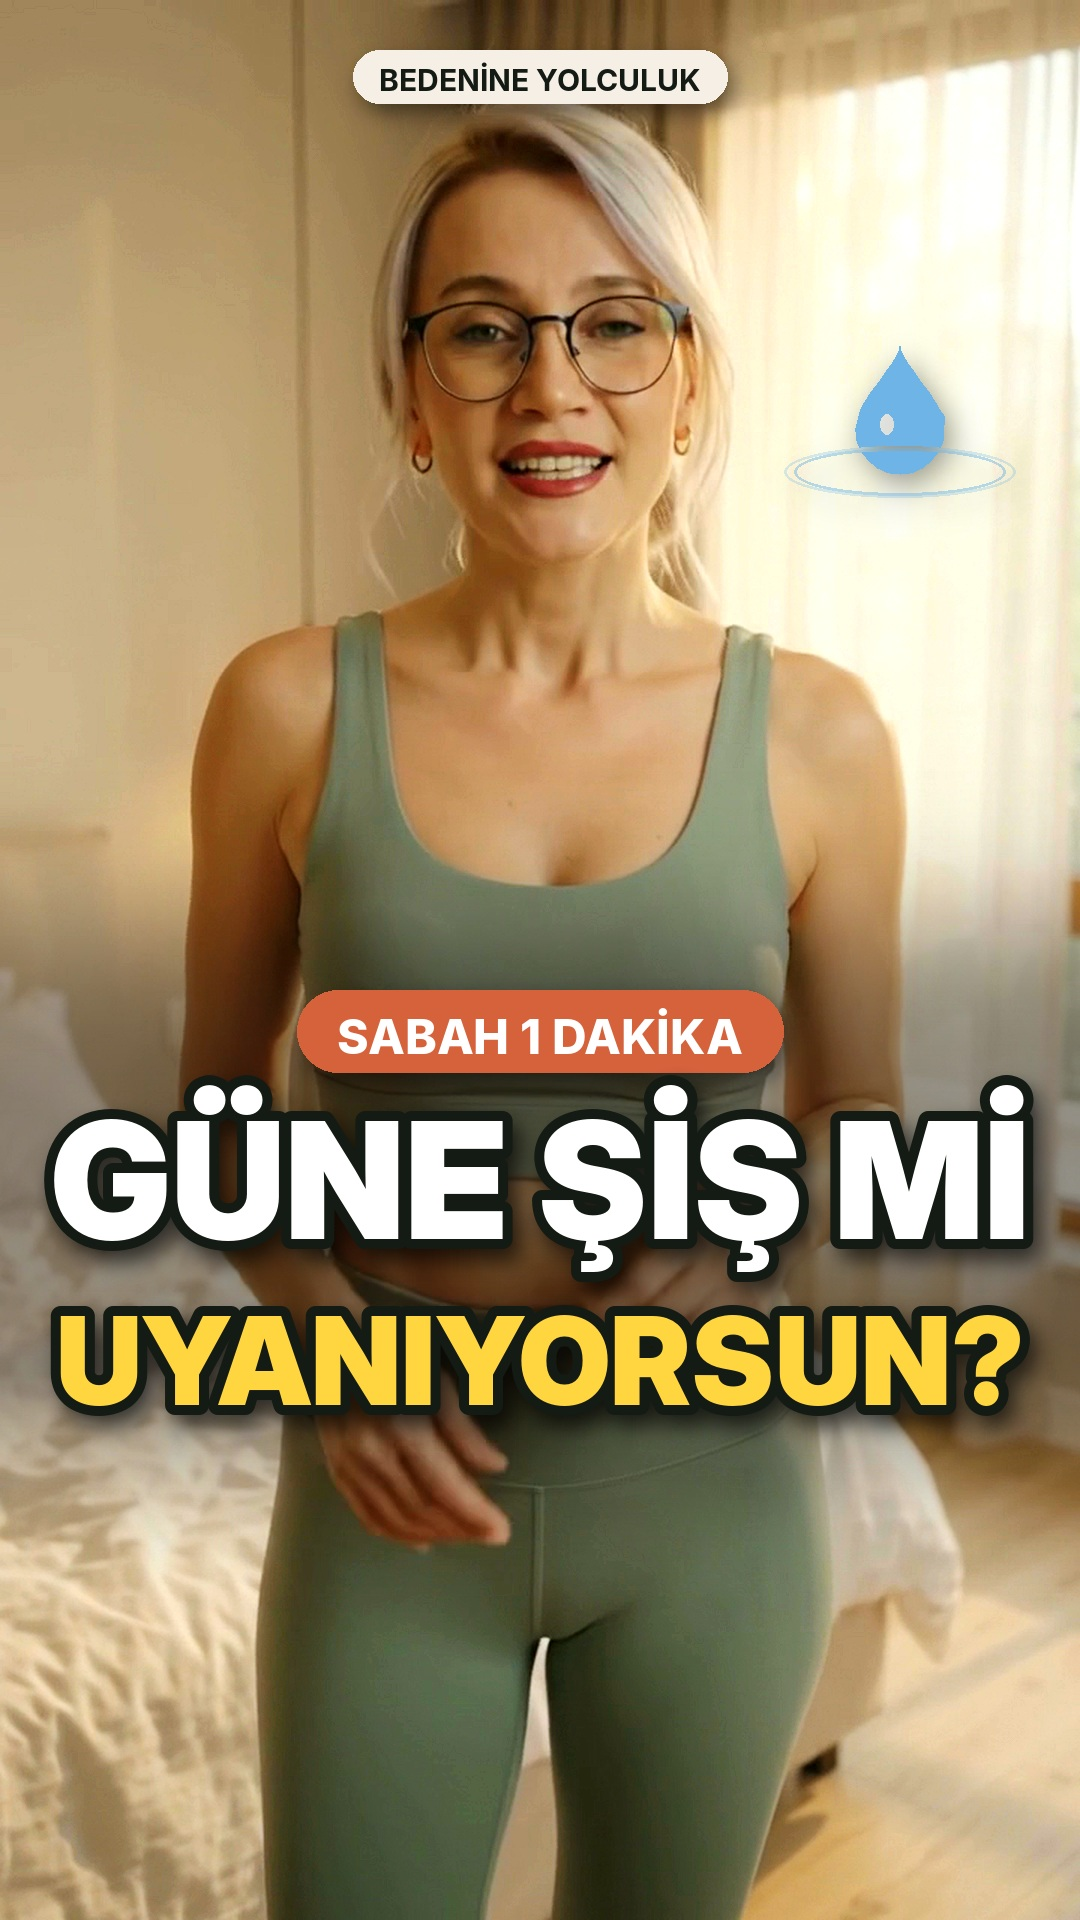
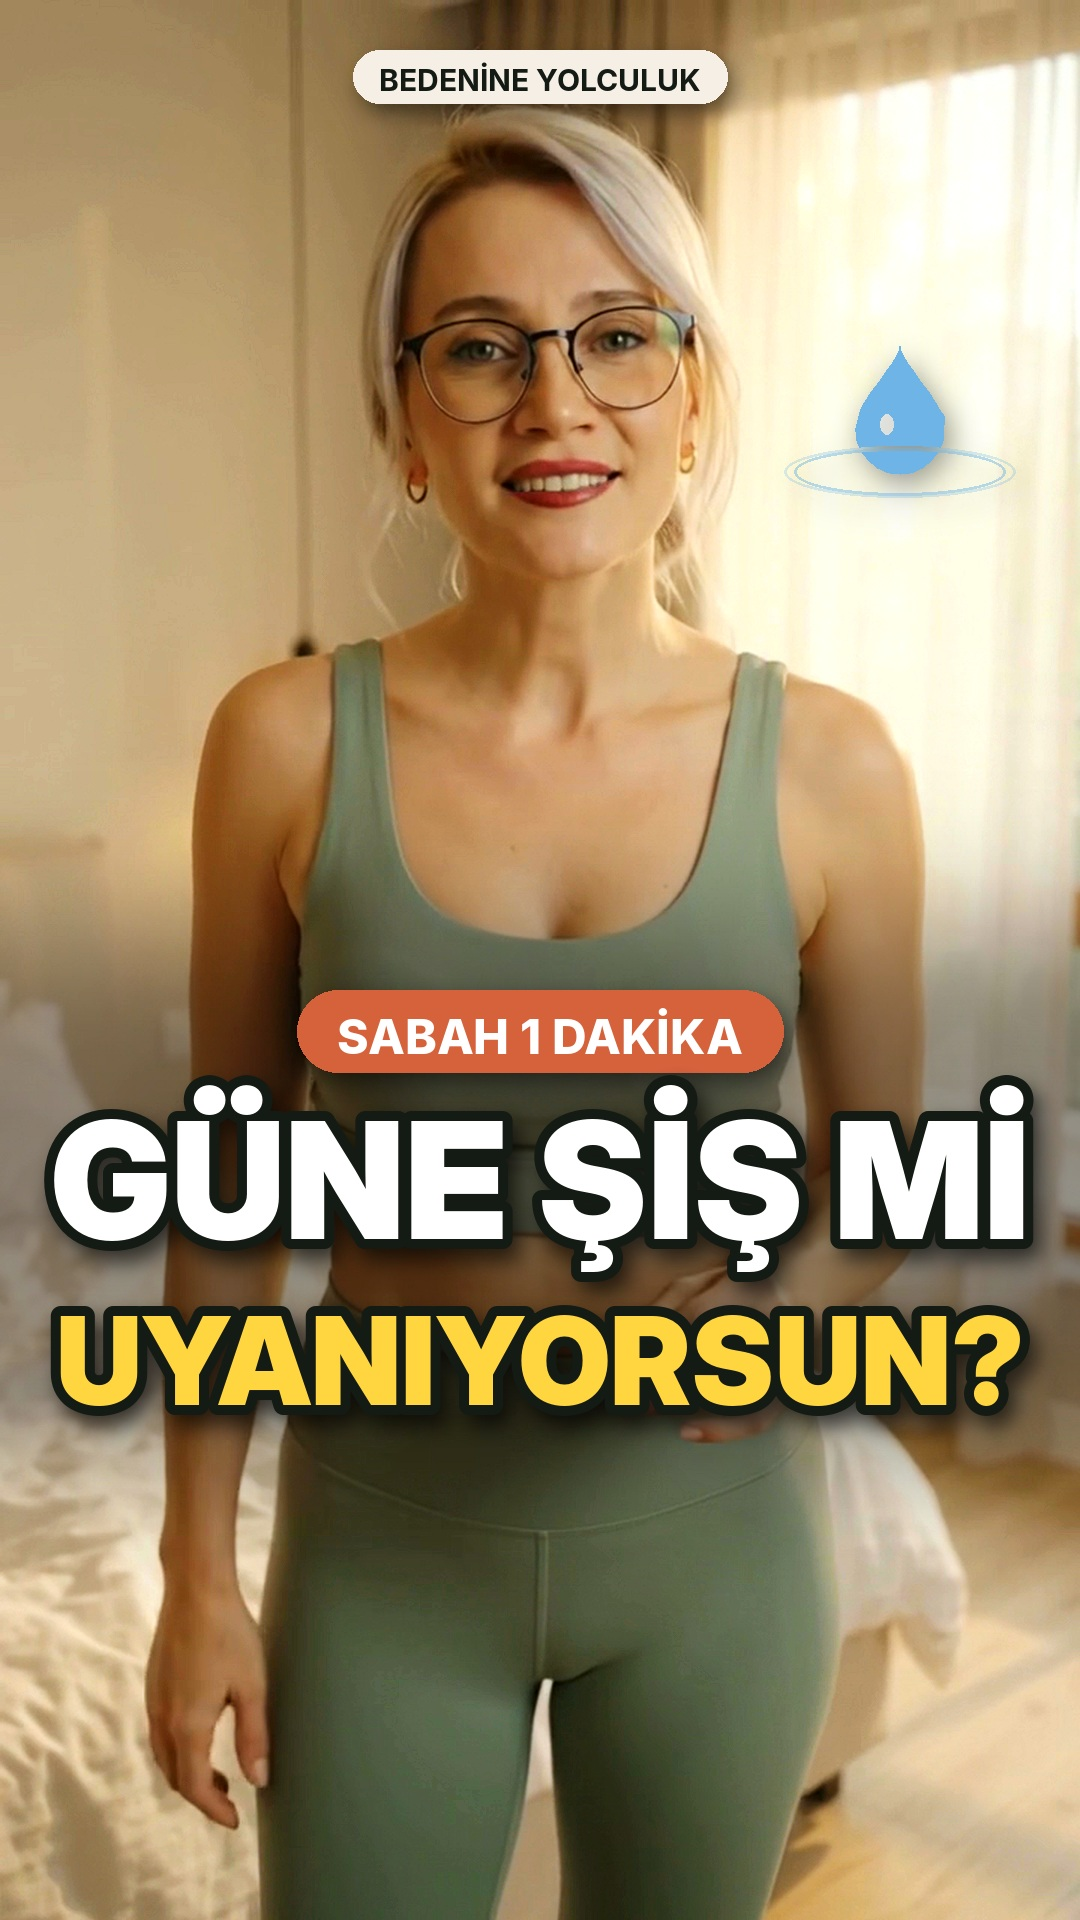
Topuk zıplatma kapağı: doğal gülümseyen kare; kapak karesi seçim kuralı skill'e eklendi
Claude-Session: https://claude.ai/code/session_01ACpv1xK3s1GVbmM6dXxg4Y

diff --git a/.claude/skills/bedenine-video/SKILL.md b/.claude/skills/bedenine-video/SKILL.md
@@ -21,7 +21,9 @@ sabit kapakla ya da konuşma ve büyük yazıyla başlayan videolar %8–16. Bu 
   `seviye_db` -6. Kullanıcı müzik istemezse `"yok": true`.
 - **Kapak aracı:**
   `python3 araclar/shorts_kapak.py VIDEO SANIYE CIKTI --etiket ... --satir1 ... --satir2 ... --y ... --ikon ...`.
-  Başlığı yüzün altına koy, gözlerin açık olduğu kareyi seç.
+  Başlığı yüzün altına koy. Kare seçimi: gözler tam açık ve kameraya bakıyor, doğal ve rahat bir
+  gülümseme (konuşurken yakalanmış yarım ağız ifadesi değil). 0.1–0.2 sn aralıklarla yüz ızgarası çıkar,
+  2–3 adayı büyük boyutta karşılaştır, en doğal gülümsemeyi seç.
 
 ## Adımlar
 
